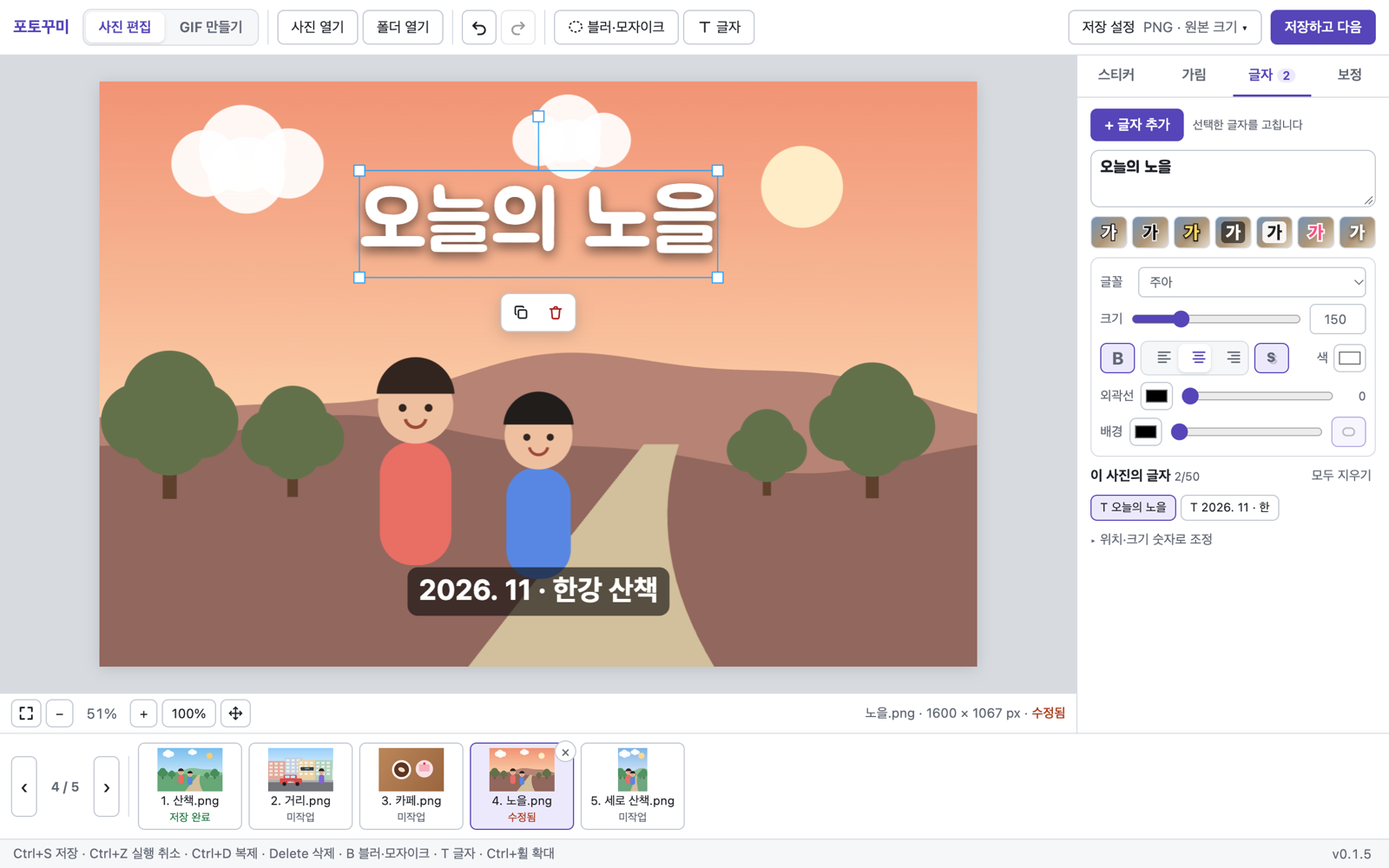
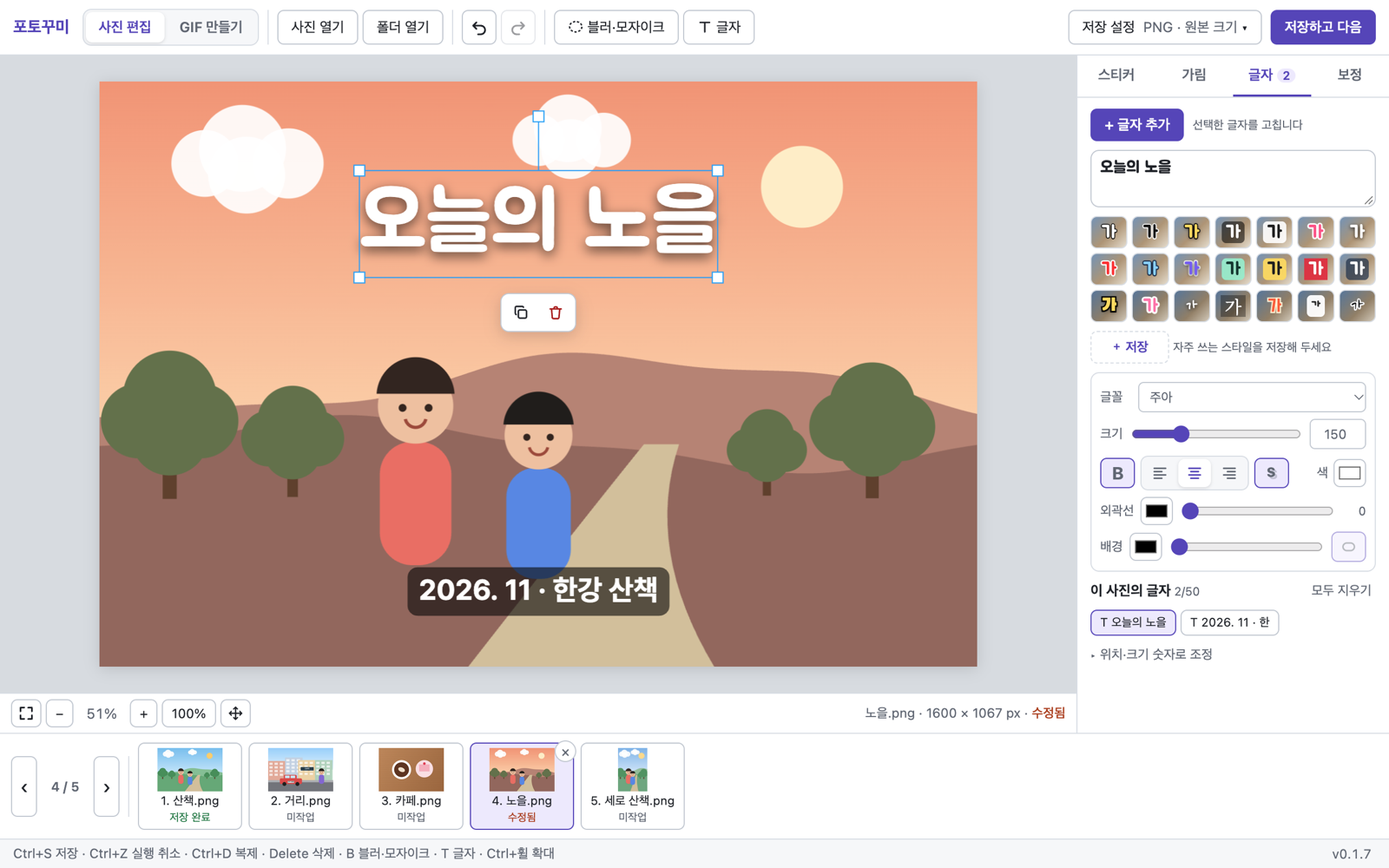
Add 21 quick text styles, saved "내 스타일" presets and fix the add hint
- Quick styles grow to 3 rows of 7: two rows of color/outline/box looks that
  keep the font, one row of templates that also pick a bundled font.
- 내 스타일: save the panel's whole look plus size relative to the photo
  (not the content), apply with font and size, delete; max 20, persisted.
- Handle resizing now also remembers the size for the next text.
- The hint beside 글자 추가 is shorter and wraps to two lines instead of an
  ellipsis; at window heights <= 640px the add row hides (toolbar T / T key)
  and the preset grids shrink to one scrolling row so the panel fits.

Changed region(s): [[0.7812, 0.248, 1.0, 0.775]]

diff --git a/src/renderer/TextPanel.tsx b/src/renderer/TextPanel.tsx
@@ -1,7 +1,7 @@
 import { useEffect, useRef, type ReactNode, type RefObject } from 'react'
 import { BUNDLED_FONTS, CATEGORY_LABELS, systemFont, systemFamily, type FontCategory } from '../shared/fonts'
-import { MAX_TEXTS, TEXT_PRESETS, type TextAlign, type TextItem, type TextStyle } from '../shared/text'
-import { previewFamily } from './text'
+import { MAX_MY_PRESETS, MAX_TEXTS, TEXT_PRESETS, type MyPreset, type TextAlign, type TextItem, type TextStyle } from '../shared/text'
+import { ensureFont, previewFamily } from './text'
 
 interface Props {
   photoOpen: boolean
@@ -14,6 +14,11 @@ interface Props {
   maxFontSize: number
   /** null while the PC font list is loading. */
   systemFonts: string[] | null
+  /** Looks the user saved ("내 스타일"), newest first. */
+  myPresets: MyPreset[]
+  onSaveMine(): void
+  onApplyMine(preset: MyPreset): void
+  onDeleteMine(id: string): void
   textArea: RefObject<HTMLTextAreaElement | null>
   onAdd(): void
   onSelect(id: string): void
@@ -42,7 +47,21 @@ const alignIcon = (align: TextAlign) => <svg width="14" height="14" viewBox="0 0
   {[3, 6.5, 10, 13.5].map((y, index) => { const long = index % 2 === 0, w = long ? 12 : 8, x = align === 'left' ? 2 : align === 'right' ? 14 - w : 8 - w / 2; return <path key={y} d={`M${x} ${y}h${w}`} /> })}
 </svg>
 
-export function TextPanel({ photoOpen, busy, texts, selected, style, fontSize, maxFontSize, systemFonts, textArea, onAdd, onSelect, onText, onStyle, onFontSize, onCommit, onClear, children }: Props) {
+/** "가" drawn in a look on a photo-like backdrop, so each chip shows how the style reads on a picture. */
+function Sample({ look }: { look: TextStyle }) {
+  return <span style={{ color: look.color, fontFamily: previewFamily(look.font), fontWeight: look.bold ? 700 : 400,
+    background: look.boxOpacity > 0 ? `${look.boxColor}${Math.round(look.boxOpacity * 2.55).toString(16).padStart(2, '0')}` : undefined,
+    borderRadius: look.boxOpacity > 0 && !look.boxRound ? 0 : undefined,
+    WebkitTextStroke: look.strokeWidth > 0 ? `${Math.max(2, look.strokeWidth / 4)}px ${look.strokeColor}` : undefined,
+    textShadow: look.shadow ? '0 1px 3px rgba(0,0,0,.7)' : undefined }}>가</span>
+}
+export function TextPanel({ photoOpen, busy, texts, selected, style, fontSize, maxFontSize, systemFonts, myPresets, textArea, onAdd, onSelect, onText, onStyle, onFontSize, onCommit, onClear, onSaveMine, onApplyMine, onDeleteMine, children }: Props) {
+  // Chips preview their own fonts: load the template and saved-style faces once they are listed.
+  const fontKeys = [...new Set([...TEXT_PRESETS.flatMap(preset => preset.style.font ? [`${preset.style.font}|${preset.style.bold ?? true}`] : []),
+    ...myPresets.map(preset => `${preset.style.font}|${preset.style.bold}`)])].join(',')
+  useEffect(() => {
+    for (const key of fontKeys.split(',').filter(Boolean)) { const [font, bold] = key.split('|'); void ensureFont(font, bold === 'true').catch(() => undefined) }
+  }, [fontKeys])
   const off = busy || !photoOpen
   const editing = !!selected
   const family = systemFamily(style.font)
@@ -53,22 +72,23 @@ export function TextPanel({ photoOpen, busy, texts, selected, style, fontSize, m
   return <section className="text-panel" aria-label="글자">
     <div className="text-add">
       <button className="primary" disabled={off || texts.length >= MAX_TEXTS} onClick={onAdd}>+ 글자 추가</button>
-      <span className="hint">{editing ? '선택한 글자를 고칩니다' : photoOpen ? '스타일은 다음 글자에 적용' : '사진을 열면 글자를 넣을 수 있습니다'}</span>
+      <span className="hint">{editing ? '선택한 글자를 고칩니다' : photoOpen ? '스타일은 다음 글자에 적용됩니다' : '사진을 먼저 열어 주세요'}</span>
     </div>
-    <textarea ref={textArea} aria-label="글자 내용" rows={2} maxLength={500} placeholder={editing ? '' : '글자 추가를 누른 뒤 입력하세요'} disabled={off || !editing}
+    <textarea ref={textArea} aria-label="글자 내용" rows={2} spellCheck={false} maxLength={500} placeholder={editing ? '' : '글자 추가(T)를 누른 뒤 입력하세요'} disabled={off || !editing}
       value={selected?.text ?? ''} style={{ fontFamily: previewFamily(style.font), fontWeight: style.bold ? 700 : 400 }}
       onChange={e => onText(e.target.value)} onBlur={onCommit} />
     <div className="text-presets" role="group" aria-label="빠른 스타일">
-      {TEXT_PRESETS.map(preset => {
-        const look = { ...style, ...preset.style }
-        // A photo-like backdrop shows how each look reads on a picture.
-        return <button key={preset.name} className="preset" disabled={off} title={preset.name} aria-label={`스타일: ${preset.name}`}
-          onClick={() => onStyle(preset.style)}>
-          <span style={{ color: look.color, background: look.boxOpacity > 0 ? `${look.boxColor}${Math.round(look.boxOpacity * 2.55).toString(16).padStart(2, '0')}` : undefined,
-            WebkitTextStroke: look.strokeWidth > 0 ? `${Math.max(2, look.strokeWidth / 4)}px ${look.strokeColor}` : undefined,
-            textShadow: look.shadow ? '0 1px 3px rgba(0,0,0,.7)' : undefined }}>가</span>
-        </button>
-      })}
+      {TEXT_PRESETS.map(preset => <button key={preset.name} className={`preset${preset.style.font ? ' template' : ''}`} disabled={off} title={preset.name} aria-label={`스타일: ${preset.name}`}
+        onClick={() => onStyle(preset.style)}><Sample look={{ ...style, ...preset.style }} /></button>)}
+    </div>
+    <div className="my-presets" role="group" aria-label="내 스타일">
+      <button className="preset save" disabled={off || myPresets.length >= MAX_MY_PRESETS} title={myPresets.length >= MAX_MY_PRESETS ? `내 스타일은 ${MAX_MY_PRESETS}개까지 저장됩니다` : '지금 글꼴·크기·색·외곽선·배경·그림자를 내 스타일로 저장'}
+        aria-label="지금 스타일을 내 스타일로 저장" onClick={onSaveMine}>＋ 저장</button>
+      {myPresets.map((preset, index) => <div key={preset.id} className="my-preset">
+        <button className="preset" disabled={off} title={`내 스타일 ${index + 1} 적용 (글꼴·크기 포함)`} aria-label={`내 스타일 ${index + 1}`} onClick={() => onApplyMine(preset)}><Sample look={preset.style} /></button>
+        <button className="remove" disabled={busy} title="내 스타일 삭제" aria-label={`내 스타일 ${index + 1} 삭제`} onClick={() => onDeleteMine(preset.id)}>×</button>
+      </div>)}
+      {!myPresets.length && <span className="hint">자주 쓰는 스타일을 저장해 두세요</span>}
     </div>
     <div className="region-fields text-fields" role="group" aria-label="글자 스타일">
       <label>글꼴<select aria-label="글꼴" disabled={off} value={style.font} onChange={e => onStyle({ font: e.target.value })}>

diff --git a/src/renderer/src.tsx b/src/renderer/src.tsx
@@ -11,7 +11,7 @@ import type { UpdateState } from '../shared/update'
 import { loadPref, savePref } from './remember'
 import { TextPanel } from './TextPanel'
 import { ensureFont, listSystemFonts, withMeasuredSize } from './text'
-import { DEFAULT_TEXT, DEFAULT_TEXT_STYLE, MAX_TEXTS, validFontSize, validTextStyle, type TextItem, type TextStyle } from '../shared/text'
+import { DEFAULT_TEXT, DEFAULT_TEXT_STYLE, MAX_MY_PRESETS, MAX_TEXTS, samePreset, validFontSize, validMyPresets, validRelSize, validTextStyle, type MyPreset, type TextItem, type TextStyle } from '../shared/text'
 const validRegionEffect = (value: unknown): value is { style: 'blur' | 'mosaic'; strength: number; shape: 'ellipse' | 'rect' } => {
   const v = value as Record<string, unknown> | null
   return !!v && typeof v === 'object' && ['blur', 'mosaic'].includes(v.style as string) && typeof v.strength === 'number' && validStrength(v.strength) && ['ellipse', 'rect'].includes(v.shape as string)
@@ -24,7 +24,7 @@ import { ADJUSTMENT_KEYS, isNeutral, sameAdjustments, NEUTRAL_ADJUSTMENTS, type 
 import './style.css'
 const validTextDefaults = (value: unknown): value is { style: TextStyle; relSize: number } => {
   const v = value as Record<string, unknown> | null
-  return !!v && typeof v === 'object' && validTextStyle(v.style) && typeof v.relSize === 'number' && v.relSize > 0 && v.relSize <= 1
+  return !!v && typeof v === 'object' && validTextStyle(v.style) && validRelSize(v.relSize)
 }
 /** Which side tab edits the selected item. */
 function selectedKind(scene: Scene): 'stickers' | 'regions' | 'text' | null {
@@ -88,6 +88,8 @@ function App() {
   type TextDefaults = { style: TextStyle; relSize: number }
   const [textDefaults, setTextDefaults] = useState<TextDefaults>(() => loadPref('pk.textDefaults', { style: { ...DEFAULT_TEXT_STYLE }, relSize: 0.08 }, validTextDefaults))
   const [systemFonts, setSystemFonts] = useState<string[] | null>(null)
+  const [myPresets, setMyPresets] = useState<MyPreset[]>(() => loadPref('pk.textPresets', [], validMyPresets))
+  function storeMyPresets(next: MyPreset[]) { setMyPresets(next); savePref('pk.textPresets', next) }
   const textArea = useRef<HTMLTextAreaElement>(null)
   const focusNewText = useRef(false)
   useEffect(() => { if (sideTab === 'text' && systemFonts === null) void listSystemFonts().then(setSystemFonts) }, [sideTab, systemFonts])
@@ -263,6 +265,24 @@ function App() {
       if (currentHistory.current.present.selectedId === id) changeText({ style })
     })
   }
+  /** Saves the look in the panel (selected text, else the defaults) as "내 스타일"; content is not part of it. */
+  function saveMyPreset() {
+    const preset = { style: { ...(textItem?.style ?? textDefaults.style) }, relSize: textItem ? Math.min(1, textItem.fontSize / shortEdge) : textDefaults.relSize }
+    if (myPresets.some(item => samePreset(item, preset))) { setStatus('같은 스타일이 이미 내 스타일에 있습니다.'); return }
+    if (myPresets.length >= MAX_MY_PRESETS) return
+    storeMyPresets([{ id: crypto.randomUUID(), ...preset }, ...myPresets])
+    setStatus('지금 스타일을 내 스타일에 저장했습니다. 다시 실행해도 남아 있습니다.')
+  }
+  /** Applies a saved look including font and size (size follows the photo's short edge). */
+  function applyMyPreset(preset: MyPreset) {
+    rememberText({ style: { ...preset.style }, relSize: preset.relSize })
+    const id = textItem?.id
+    void run(async () => {
+      await ensureFont(preset.style.font, preset.style.bold)
+      if (!id || currentHistory.current.present.selectedId !== id) return
+      changeText({ style: { ...preset.style }, fontSize: Math.min(maxFontSize, Math.max(8, Math.round(preset.relSize * shortEdge))) })
+    })
+  }
   function changeFontSize(size: number, live = false) {
     if (!textItem || !validFontSize(size)) return
     rememberText({ ...textDefaults, relSize: Math.min(1, size / shortEdge) })
@@ -365,7 +385,11 @@ function App() {
   function change(value: Placement, id = selection ? scene.selectedId ?? undefined : undefined) {
     if (!id || !validPlacement(value)) return
     const current = currentHistory.current.present
-    editScene(updateSelected({ ...current, selectedId: id }, value))
+    const next = updateSelected({ ...current, selectedId: id }, value)
+    editScene(next)
+    // A text resized with the handles makes its size the default for the next text (like the size field does).
+    const before = current.texts.find(item => item.id === id), after = next.texts.find(item => item.id === id)
+    if (before && after && after.fontSize !== before.fontSize) rememberText({ ...textDefaults, relSize: Math.min(1, after.fontSize / shortEdge) })
   }
   function handleEditorKey(event: KeyboardEvent<HTMLElement>) {
     const target = event.target
@@ -748,6 +772,7 @@ function App() {
           {region ? numericFields : <p className="hint">{photo ? '켜 둔 채로 여러 곳을 연속으로 가릴 수 있습니다. 빈 곳을 드래그하면 새 영역, 영역을 누르면 선택됩니다. Shift는 정원·정사각형, 사진 밖에서 드래그를 시작하면 사진 끝에 딱 맞춰집니다. Esc나 B로 도구를 끕니다.' : '사진을 열면 블러·모자이크로 가릴 수 있습니다.'}</p>}
         </section> : sideTab === 'text' ? <TextPanel photoOpen={!!photo} busy={busy} texts={scene.texts} selected={textItem}
           style={textItem?.style ?? textDefaults.style} fontSize={textItem?.fontSize ?? null} maxFontSize={maxFontSize} systemFonts={systemFonts} textArea={textArea}
+          myPresets={myPresets} onSaveMine={saveMyPreset} onApplyMine={applyMyPreset} onDeleteMine={id => storeMyPresets(myPresets.filter(item => item.id !== id))}
           onAdd={() => void addTextItem()} onSelect={selectInstance} onText={text => changeText({ text }, true)} onStyle={changeTextStyle} onFontSize={changeFontSize}
           onCommit={commitLive} onClear={() => editScene(clearTexts(currentHistory.current.present))}>
           {textItem ? numericFields : <p className="hint">{photo ? '글자를 누르면 선택됩니다. 모서리를 끌면 크기, 위쪽 핸들로 회전합니다. 방향키 1px, Shift+방향키 10px 이동.' : ''}</p>}

diff --git a/src/shared/text.ts b/src/shared/text.ts
@@ -30,7 +30,10 @@ export const DEFAULT_TEXT_STYLE: TextStyle = {
   font: DEFAULT_FONT, bold: true, color: '#ffffff', align: 'center',
   strokeColor: '#000000', strokeWidth: 8, boxColor: '#000000', boxOpacity: 0, boxRound: true, shadow: false
 }
-/** Quick looks that keep the font and size; each pairs text with an outline or box so it reads on any photo. */
+/**
+ * Quick looks, 7 per row. Rows 1~2 only change colors/outline/box/shadow and keep the user's font and size;
+ * row 3 are templates that also pick a bundled font. Each pairs the text with an outline or box so it reads on any photo.
+ */
 export const TEXT_PRESETS: readonly { name: string; style: Partial<TextStyle> }[] = [
   { name: '흰 글자 + 검은 외곽선', style: { color: '#ffffff', strokeColor: '#000000', strokeWidth: 8, boxOpacity: 0, shadow: false } },
   { name: '검은 글자 + 흰 외곽선', style: { color: '#111111', strokeColor: '#ffffff', strokeWidth: 8, boxOpacity: 0, shadow: false } },
@@ -38,8 +41,35 @@ export const TEXT_PRESETS: readonly { name: string; style: Partial<TextStyle> }[
   { name: '반투명 검은 상자', style: { color: '#ffffff', strokeWidth: 0, boxColor: '#000000', boxOpacity: 55, boxRound: true, shadow: false } },
   { name: '흰 상자', style: { color: '#222222', strokeWidth: 0, boxColor: '#ffffff', boxOpacity: 90, boxRound: true, shadow: false } },
   { name: '분홍 + 흰 외곽선', style: { color: '#ff5c93', strokeColor: '#ffffff', strokeWidth: 12, boxOpacity: 0, shadow: false } },
-  { name: '그림자만', style: { color: '#ffffff', strokeWidth: 0, boxOpacity: 0, shadow: true } }
+  { name: '그림자만', style: { color: '#ffffff', strokeWidth: 0, boxOpacity: 0, shadow: true } },
+
+  { name: '빨강 + 흰 외곽선', style: { color: '#ff3b30', strokeColor: '#ffffff', strokeWidth: 10, boxOpacity: 0, shadow: false } },
+  { name: '하늘색 + 남색 외곽선', style: { color: '#8fd3ff', strokeColor: '#1d3557', strokeWidth: 10, boxOpacity: 0, shadow: false } },
+  { name: '보라 + 흰 외곽선', style: { color: '#7b5cff', strokeColor: '#ffffff', strokeWidth: 10, boxOpacity: 0, shadow: true } },
+  { name: '민트 상자', style: { color: '#0f3d33', strokeWidth: 0, boxColor: '#9ef0d0', boxOpacity: 92, boxRound: true, shadow: false } },
+  { name: '노란 상자', style: { color: '#222222', strokeWidth: 0, boxColor: '#ffe14d', boxOpacity: 95, boxRound: true, shadow: false } },
+  { name: '빨간 띠 + 흰 글자', style: { color: '#ffffff', strokeWidth: 0, boxColor: '#e63946', boxOpacity: 95, boxRound: false, shadow: false } },
+  { name: '남색 반투명 상자', style: { color: '#ffffff', strokeWidth: 0, boxColor: '#1d3557', boxOpacity: 70, boxRound: true, shadow: false } },
+
+  { name: '예능 자막 (검은고딕)', style: { font: 'blackhansans', bold: false, color: '#ffe14d', strokeColor: '#000000', strokeWidth: 12, boxOpacity: 0, shadow: true } },
+  { name: '귀여운 분홍 (주아)', style: { font: 'jua', bold: false, color: '#ff7eb6', strokeColor: '#ffffff', strokeWidth: 14, boxOpacity: 0, shadow: false } },
+  { name: '손글씨 메모 (나눔손글씨 펜)', style: { font: 'nanumpen', bold: false, color: '#ffffff', strokeWidth: 0, boxOpacity: 0, shadow: true } },
+  { name: '감성 명조 (본명조)', style: { font: 'notoserif', bold: false, color: '#ffffff', strokeWidth: 0, boxColor: '#000000', boxOpacity: 35, boxRound: false, shadow: false } },
+  { name: '레트로 (도현)', style: { font: 'dohyeon', bold: false, color: '#ff6b35', strokeColor: '#fff4d6', strokeWidth: 10, boxOpacity: 0, shadow: false } },
+  { name: '말풍선 (동글)', style: { font: 'dongle', bold: true, color: '#333333', strokeWidth: 0, boxColor: '#ffffff', boxOpacity: 95, boxRound: true, shadow: false } },
+  { name: '붓글씨 (나눔손글씨 붓)', style: { font: 'nanumbrush', bold: false, color: '#111111', strokeColor: '#ffffff', strokeWidth: 10, boxOpacity: 0, shadow: false } }
 ]
+/** A look the user saved: the whole style plus the size relative to the photo's short edge (no text content). */
+export interface MyPreset { id: string; style: TextStyle; relSize: number }
+export const MAX_MY_PRESETS = 20
+export const validRelSize = (value: unknown): value is number => typeof value === 'number' && Number.isFinite(value) && value > 0 && value <= 1
+export function validMyPresets(value: unknown): value is MyPreset[] {
+  return Array.isArray(value) && value.length <= MAX_MY_PRESETS && value.every(item => !!item && typeof item === 'object'
+    && typeof item.id === 'string' && item.id.length <= 64 && validTextStyle(item.style) && validRelSize(item.relSize))
+}
+/** Same look as an existing preset (sizes within 0.1% of the short edge count as equal). */
+export const samePreset = (a: Omit<MyPreset, 'id'>, b: Omit<MyPreset, 'id'>) =>
+  Math.abs(a.relSize - b.relSize) < 0.001 && (Object.keys(a.style) as (keyof TextStyle)[]).every(key => a.style[key] === b.style[key])
 const COLOR = /^#[0-9a-f]{6}$/i
 const intIn = (value: unknown, min: number, max: number) => typeof value === 'number' && Number.isInteger(value) && value >= min && value <= max
 export function validTextStyle(value: unknown): value is TextStyle {

diff --git a/src/renderer/style.css b/src/renderer/style.css
@@ -213,13 +213,27 @@ button.disclosure:hover { color: var(--text); background: none; }.region-panel {
 .text-panel { flex: 1; min-height: 0; display: flex; flex-direction: column; gap: 8px; padding: 10px 12px; overflow-y: auto; }
 .text-add { display: flex; align-items: center; gap: 8px; }
 .text-add button { flex: none; height: 30px; }
-.text-add .hint { min-width: 0; overflow: hidden; text-overflow: ellipsis; white-space: nowrap; font-size: 11px; }
+/* Up to two short lines beside the button instead of an ellipsis. */
+.text-add .hint { min-width: 0; font-size: 11px; line-height: 1.3; display: -webkit-box; -webkit-line-clamp: 2; -webkit-box-orient: vertical; overflow: hidden; }
 .text-panel textarea { flex: none; width: 100%; min-height: 44px; max-height: 72px; resize: vertical; padding: 6px 8px; border: 1px solid var(--line-strong); border-radius: var(--radius); font-size: 15px; line-height: 1.3; background: var(--surface); color: var(--text); }
 .text-panel textarea:disabled { background: var(--surface-2); }
 .text-presets { display: grid; grid-template-columns: repeat(7, 1fr); gap: 4px; }
 .text-presets .preset { height: 30px; padding: 0; display: flex; align-items: center; justify-content: center; border-color: var(--line); background: linear-gradient(135deg, #7d9cc4 0%, #b8a07c 55%, #e9e2d3 100%); }
 .text-presets .preset span { padding: 0 4px; border-radius: 4px; font-size: 16px; font-weight: 800; line-height: 1.25; paint-order: stroke fill; }
-.text-presets .preset:hover:not(:disabled) { border-color: var(--accent); }
+.text-presets .preset:hover:not(:disabled), .my-presets .preset:hover:not(:disabled) { border-color: var(--accent); }
+/* Font templates (row 3) get a slightly different backdrop so it reads as "also changes the font". */
+.text-presets .preset.template { background: linear-gradient(135deg, #5f7fa8 0%, #9d8b6e 60%, #d8d0c0 100%); }
+/* Built-in looks: three rows of seven; at small heights only one row shows and the grid scrolls (a leaf). */
+.text-presets { flex: none; max-height: calc(3 * 30px + 2 * 4px); overflow-y: auto; scrollbar-width: thin; }
+.my-presets { scrollbar-width: thin; }
+.my-presets { flex: none; display: grid; grid-template-columns: repeat(7, 1fr); gap: 4px; max-height: 30px; overflow-y: auto; align-items: center; }
+.my-presets .preset { width: 100%; height: 30px; padding: 0; display: flex; align-items: center; justify-content: center; border-color: var(--line); background: linear-gradient(135deg, #7d9cc4 0%, #b8a07c 55%, #e9e2d3 100%); }
+.my-presets .preset span { padding: 0 4px; border-radius: 4px; font-size: 16px; font-weight: 800; line-height: 1.25; paint-order: stroke fill; }
+.my-presets .preset.save { grid-column: span 2; background: var(--surface); border-style: dashed; color: var(--accent); font-size: 12px; font-weight: 600; }
+.my-presets .hint { grid-column: span 5; font-size: 11px; white-space: nowrap; overflow: hidden; text-overflow: ellipsis; }
+.my-preset { position: relative; min-width: 0; }
+.my-preset .remove { position: absolute; top: 1px; right: 1px; width: 16px; height: 16px; padding: 0; border-radius: 50%; font-size: 11px; line-height: 1; display: none; place-items: center; background: var(--surface); }
+.my-preset:hover .remove, .my-preset:focus-within .remove { display: grid; }
 .text-fields { gap: 6px; grid-template-columns: minmax(0, 1fr); }
 .text-fields > * { min-width: 0; }
 .text-fields select { flex: 1; min-width: 0; height: 28px; margin-left: 8px; }
@@ -331,9 +345,12 @@ dialog.library-dialog { width: min(860px, 92vw); max-width: 92vw; max-height: 86
 }
 @media (max-height: 640px) {
   .text-panel { gap: 6px; padding: 8px 10px; }
-  .text-add .hint { display: none; }
+  /* Same action as the toolbar T button / T key; dropped so the panel fits 580px without nesting scrollbars. */
+  .text-add { display: none; }
   .text-panel textarea { min-height: 36px; }
-  .text-presets .preset { height: 26px; }
+  .text-presets .preset, .my-presets .preset { height: 26px; }
+  .text-presets { max-height: 26px; }
+  .my-presets { max-height: 26px; }
   .text-fields { gap: 4px; padding: 6px 8px; }
   .text-panel textarea { min-height: 32px; padding: 4px 8px; }
   .text-fields select, .text-fields input[type=number], .text-fields .bold-toggle { height: 25px; }

diff --git a/tests/text.test.ts b/tests/text.test.ts
@@ -1,7 +1,7 @@
 import { describe, it, expect } from 'vitest'
 import { existsSync, readFileSync, readdirSync } from 'node:fs'
 import { join } from 'node:path'
-import { DEFAULT_TEXT_STYLE, MAX_TEXTS, TEXT_PRESETS, layoutText, lineAnchor, scaleText, validTextItem, validTextStyle, type TextItem } from '../src/shared/text'
+import { DEFAULT_TEXT_STYLE, MAX_MY_PRESETS, MAX_TEXTS, TEXT_PRESETS, layoutText, samePreset, validMyPresets, lineAnchor, scaleText, validTextItem, validTextStyle, type TextItem } from '../src/shared/text'
 import { BUNDLED_FONTS, fontFamilyList, systemFont, validFontRef } from '../src/shared/fonts'
 import { addInstance, addText, clearTexts, commitScene, duplicateSelected, emptyHistory, removeSelected, undoScene, updateSelected, updateSelectedText } from '../src/shared/scene'
 import { allowedPermission, bundleFileType } from '../src/main/security'
@@ -54,6 +54,24 @@ describe('글자 값 검증', () => {
     for (const bad of ['a"b', 'a\\b', 'a;b', '', ' lead', 'x'.repeat(121), 'a\nb']) expect(validFontRef(systemFont(bad))).toBe(false)
     expect(fontFamilyList(systemFont('맑은 고딕'))).toBe('"맑은 고딕", "PK pretendard", sans-serif')
     expect(fontFamilyList('jua')).toBe('"PK jua", "PK pretendard", sans-serif')
+  })
+})
+
+describe('빠른 스타일과 내 스타일', () => {
+  it('빠른 스타일은 7개씩 3줄, 이름이 겹치지 않고 3번째 줄만 글꼴을 바꾼다', () => {
+    expect(TEXT_PRESETS).toHaveLength(21)
+    expect(new Set(TEXT_PRESETS.map(preset => preset.name)).size).toBe(21)
+    expect(TEXT_PRESETS.map(preset => !!preset.style.font)).toEqual([...Array(14).fill(false), ...Array(7).fill(true)])
+  })
+  it('저장된 내 스타일 목록을 검증하고 같은 스타일을 알아본다', () => {
+    const mine = { id: 'm1', style: { ...DEFAULT_TEXT_STYLE }, relSize: 0.1 }
+    expect(validMyPresets([])).toBe(true)
+    expect(validMyPresets([mine])).toBe(true)
+    for (const bad of [[{ ...mine, relSize: 0 }], [{ ...mine, relSize: 2 }], [{ ...mine, style: { ...mine.style, color: 'red' } }], [{ ...mine, id: 5 }], 'x', null,
+      Array.from({ length: MAX_MY_PRESETS + 1 }, (_, index) => ({ ...mine, id: String(index) }))]) expect(validMyPresets(bad)).toBe(false)
+    expect(samePreset(mine, { style: { ...DEFAULT_TEXT_STYLE }, relSize: 0.1004 })).toBe(true)
+    expect(samePreset(mine, { style: { ...DEFAULT_TEXT_STYLE }, relSize: 0.12 })).toBe(false)
+    expect(samePreset(mine, { style: { ...DEFAULT_TEXT_STYLE, shadow: true }, relSize: 0.1 })).toBe(false)
   })
 })
 

diff --git a/docs/development.md b/docs/development.md
@@ -6,7 +6,7 @@
 
 블로그에 올릴 사진을 빠르게 준비하는 **Windows용 로컬 데스크톱 앱**입니다. 사진을 열고, 미리 등록한 투명 PNG 스티커로 얼굴을 가리거나 사진을 꾸민 뒤, 크기를 맞춰 저장하고 다음 사진으로 넘어가는 반복 작업에 집중합니다.
 
-**현재 상태: 폴더 입력·하단 썸네일·블로그 리사이즈·스티커 관리 분리 구현 및 macOS 자동 검증 완료. 화면은 상단 툴바 1줄·`저장 설정` 팝오버·스크롤 없는 우측 패널로 정리했습니다([화면 레이아웃 기록](./ui-layout.md)). 탐색기에서 사진·폴더를 끌어 놓아 추가하고 썸네일 `×`로 목록에서 제거합니다([끌어 놓기 기록](./drop-import.md)). `블러·모자이크`로 사진 위에 타원 가림 영역을 그려 스티커처럼 이동·크기·회전하고 강도를 조절합니다([블러·모자이크 기록](./blur-regions.md)). 우측 `보정` 탭에서 노출·대비·채도·색온도를 조절하고 모든 사진에 같은 값을 적용할 수 있습니다([보정 기록](./adjustments.md)). `GIF 만들기` 모드에서 MOV/MP4의 구간을 `[` `]`로 골라 GIF로 저장합니다. 이 기능은 사용자가 따로 설치한 ffmpeg를 사용하며 앱에 포함하지 않습니다([GIF 기록](./gif.md)). 0.1.4부터 고양이·토끼·양·너구리 7방향 기본 스티커 28장(`animal`), 0.1.5부터 하트·반짝이·꽃 등 꾸미기 스티커 12장(`deco`)이 한 번 들어갑니다([기본 스티커 기록](./default-stickers.md)). 0.1.6부터 툴바 `T 글자`와 우측 `글자` 탭으로 사진 위에 글자를 넣고 글꼴(앱 내장 OFL 15종 + 내 PC 글꼴)·크기·색·외곽선·배경 상자·그림자를 조절합니다([글자 넣기 기록](./text-overlay.md)).** 입력 폴더 또는 여러 JPG/PNG 사진을 열고 하단 썸네일에서 전환하며 사진별 스티커 배치·선택·undo/redo·저장 상태를 유지합니다. PNG 스티커 라이브러리, 다중 배치·복제·삭제·겹침 순서와 원본/가로 너비·긴 축 기준 JPG·PNG 저장을 제공합니다. 확대 방지와 JPG 품질 100 고정 저장을 지원하며 공통 출력 설정은 재실행 후에도 유지합니다. `저장하고 다음`은 저장 성공 후에만 다음 사진으로 이동하며 마지막 사진에서는 완료를 안내합니다. 사진을 바꾸거나 종료할 때 수정 내용의 저장·버리기·취소를 선택합니다.
+**현재 상태: 폴더 입력·하단 썸네일·블로그 리사이즈·스티커 관리 분리 구현 및 macOS 자동 검증 완료. 화면은 상단 툴바 1줄·`저장 설정` 팝오버·스크롤 없는 우측 패널로 정리했습니다([화면 레이아웃 기록](./ui-layout.md)). 탐색기에서 사진·폴더를 끌어 놓아 추가하고 썸네일 `×`로 목록에서 제거합니다([끌어 놓기 기록](./drop-import.md)). `블러·모자이크`로 사진 위에 타원 가림 영역을 그려 스티커처럼 이동·크기·회전하고 강도를 조절합니다([블러·모자이크 기록](./blur-regions.md)). 우측 `보정` 탭에서 노출·대비·채도·색온도를 조절하고 모든 사진에 같은 값을 적용할 수 있습니다([보정 기록](./adjustments.md)). `GIF 만들기` 모드에서 MOV/MP4의 구간을 `[` `]`로 골라 GIF로 저장합니다. 이 기능은 사용자가 따로 설치한 ffmpeg를 사용하며 앱에 포함하지 않습니다([GIF 기록](./gif.md)). 0.1.4부터 고양이·토끼·양·너구리 7방향 기본 스티커 28장(`animal`), 0.1.5부터 하트·반짝이·꽃 등 꾸미기 스티커 12장(`deco`)이 한 번 들어갑니다([기본 스티커 기록](./default-stickers.md)). 0.1.6부터 툴바 `T 글자`와 우측 `글자` 탭으로 사진 위에 글자를 넣고 글꼴(앱 내장 OFL 15종 + 내 PC 글꼴)·크기·색·외곽선·배경 상자·그림자를 조절하고, 빠른 스타일 21종과 직접 저장한 `내 스타일`을 쓰며 마지막 스타일·크기는 재실행 후에도 유지합니다([글자 넣기 기록](./text-overlay.md)).** 입력 폴더 또는 여러 JPG/PNG 사진을 열고 하단 썸네일에서 전환하며 사진별 스티커 배치·선택·undo/redo·저장 상태를 유지합니다. PNG 스티커 라이브러리, 다중 배치·복제·삭제·겹침 순서와 원본/가로 너비·긴 축 기준 JPG·PNG 저장을 제공합니다. 확대 방지와 JPG 품질 100 고정 저장을 지원하며 공통 출력 설정은 재실행 후에도 유지합니다. `저장하고 다음`은 저장 성공 후에만 다음 사진으로 이동하며 마지막 사진에서는 완료를 안내합니다. 사진을 바꾸거나 종료할 때 수정 내용의 저장·버리기·취소를 선택합니다.
 
 선택한 스티커는 **Delete/Backspace로 삭제**, **방향키로 원본 기준 1px 이동**, **Shift+방향키로 10px 이동**합니다. 입력칸에서는 입력을 우선하며 캔버스를 클릭하면 스티커 조작으로 돌아갑니다. 회전 핸들에 마우스를 올리면 원형 화살표 커서가 표시됩니다. 삭제·이동도 실행 취소/다시 실행할 수 있습니다. Ctrl/Cmd+Z로 실행 취소, Ctrl/Cmd+Shift+Z 또는 Ctrl/Cmd+Y로 다시 실행, Ctrl/Cmd+D로 선택 스티커를 복제합니다. 입력칸·관리 화면에서는 편집 단축키를 가로채지 않습니다.
 
@@ -39,7 +39,7 @@ npm run build
 npm start
 ```
 
-실제 결과: 단위/파일 I/O 96개, Playwright Electron E2E 30개 통과(글자 넣기 미리보기·저장 픽셀 일치, 기본 스티커 1회 추가·삭제 유지, 라이브러리 2개, 빈 라이브러리 등록·스티커 끌어 놓기·선택 도구 막대, 화면 배율 1·2 픽셀 회귀, 최소 창 크기 레이아웃 회귀, 끌어 놓기·제거, 블러·모자이크·보정 저장 픽셀, ffmpeg로 회전 HEVC MOV→GIF 포함. ffmpeg가 없으면 GIF E2E는 건너뜀), 타입·lint·빌드 통과(macOS 26.3 arm64). E2E는 native 파일 대화상자의 선택 결과만 대체하고 실제 main/preload/renderer, Canvas 인코딩과 파일 저장을 사용합니다. 화면 구성은 [레이아웃 기록](./ui-layout.md), 앱 아이콘 생성(`npm run icon -- <원본.png>`)은 [아이콘 기록](./icon.md), 설치 파일 배포(`v*` 태그 → draft Release)와 자동 업데이트(공개 Release 기준)는 [배포 기록](./release.md), 최신 폴더·화면 작업 흐름은 [반복 작업 개선 기록](./workflow.md), 출력 크기·형식과 오류 검증은 [단계 D 기록](./stage-d.md), 여러 사진 편집과 검증은 [단계 C 기록](./stage-c.md), 키보드 조작은 [키보드 조작 기록](./sticker-keyboard.md), 여러 스티커 편집은 [여러 스티커 수정 기록](./multiple-stickers.md), 라이브러리 형식·제한은 [단계 B 기록](./stage-b.md)에 있으며, 이전 검증은 [단계 A 안정화](./stage-a-stabilization.md), [의존성 감사 분석](./dependency-audit.md), [Windows 검증 절차](./windows-validation.md)에 있습니다.
+실제 결과: 단위/파일 I/O 98개, Playwright Electron E2E 31개 통과(글자 넣기 미리보기·저장 픽셀 일치, 글자 스타일·내 스타일 재실행 유지, 기본 스티커 1회 추가·삭제 유지, 라이브러리 2개, 빈 라이브러리 등록·스티커 끌어 놓기·선택 도구 막대, 화면 배율 1·2 픽셀 회귀, 최소 창 크기 레이아웃 회귀, 끌어 놓기·제거, 블러·모자이크·보정 저장 픽셀, ffmpeg로 회전 HEVC MOV→GIF 포함. ffmpeg가 없으면 GIF E2E는 건너뜀), 타입·lint·빌드 통과(macOS 26.3 arm64). E2E는 native 파일 대화상자의 선택 결과만 대체하고 실제 main/preload/renderer, Canvas 인코딩과 파일 저장을 사용합니다. 화면 구성은 [레이아웃 기록](./ui-layout.md), 앱 아이콘 생성(`npm run icon -- <원본.png>`)은 [아이콘 기록](./icon.md), 설치 파일 배포(`v*` 태그 → draft Release)와 자동 업데이트(공개 Release 기준)는 [배포 기록](./release.md), 최신 폴더·화면 작업 흐름은 [반복 작업 개선 기록](./workflow.md), 출력 크기·형식과 오류 검증은 [단계 D 기록](./stage-d.md), 여러 사진 편집과 검증은 [단계 C 기록](./stage-c.md), 키보드 조작은 [키보드 조작 기록](./sticker-keyboard.md), 여러 스티커 편집은 [여러 스티커 수정 기록](./multiple-stickers.md), 라이브러리 형식·제한은 [단계 B 기록](./stage-b.md)에 있으며, 이전 검증은 [단계 A 안정화](./stage-a-stabilization.md), [의존성 감사 분석](./dependency-audit.md), [Windows 검증 절차](./windows-validation.md)에 있습니다.
 
 단계 C 이전 Windows E2E **15개 전체 통과**를 사용자 로그로 확인했습니다. **단계 C·D와 이번 반복 작업 개선의 Windows 자동·수동 검증은 대기**이며 사용자가 나중에 모아서 확인할 예정입니다. 키보드 삭제·미세 이동·입력 보호·회전 커서, 라이브러리·다중 스티커 편집과 화면 배율 1·2 회귀를 포함합니다. Windows x64 NSIS 설정과 `npm run package:win` 스크립트는 준비했지만 **패키징 및 최신 설치본의 수동 GUI 검증은 대기**입니다. 단계 A의 기본 수동 편집·저장은 이전에 사용자 성공 보고를 받았습니다. 코드 서명·업데이트·릴리스 게시를 설정하지 않았습니다.
 

diff --git a/docs/text-overlay.md b/docs/text-overlay.md
@@ -8,9 +8,10 @@
 ## 사용
 - 툴바 `T 글자` 또는 `T` 키 → 사진 가운데에 `텍스트`가 생기고 입력칸이 선택된 상태로 열린다. 바로 입력하면 바뀐다. 다음 글자는 한 줄 아래에 생긴다.
 - 사진 위 글자는 스티커처럼 끌어서 이동, 모서리 핸들로 크기(비율 유지), 위 핸들로 회전한다. 방향키·Shift+방향키·Delete·Ctrl+D·undo/redo 동일. 캔버스에서 글자를 누르면 `글자` 탭, 스티커를 누르면 `스티커` 탭으로 전환된다.
-- 패널: 내용(여러 줄), 빠른 스타일 7종, 글꼴, 크기(px, 원본 기준), 굵게, 줄 정렬(왼/가운데/오른), 그림자, 글자색, 외곽선(색·두께), 배경 상자(색·불투명도·둥근 모서리).
-- 빠른 스타일은 글꼴·크기는 두고 색·외곽선·상자·그림자만 바꾼다(흰 글자+검은 외곽선, 검은 글자+흰 외곽선, 노란 자막, 반투명 검은 상자, 흰 상자, 분홍+흰 외곽선, 그림자만). 미리보기 칩은 사진처럼 보이는 그라데이션 위에 그려 사진 위에서의 대비를 보여 준다.
-- 선택이 없을 때 바꾼 스타일·글꼴은 다음 글자의 기본값이 되고, 마지막 스타일과 **크기(사진 짧은 변 대비 비율)**는 재실행 후에도 유지된다(`pk.textDefaults`, 앱 로컬 저장소). 그래서 해상도가 다른 사진에서도 자막 크기가 비슷하다.
+- 패널: 내용(여러 줄), 빠른 스타일 21종, 내 스타일, 글꼴, 크기(px, 원본 기준), 굵게, 줄 정렬(왼/가운데/오른), 그림자, 글자색, 외곽선(색·두께), 배경 상자(색·불투명도·둥근 모서리).
+- 빠른 스타일 21종(7개×3줄, 0.1.8): 1·2줄 14종은 글꼴·크기는 두고 색·외곽선·상자·그림자만 바꾼다(흰 글자+검은 외곽선, 노란 자막, 반투명 검은 상자, 민트·노란 상자, 빨간 띠 등). 3줄 7종은 **글꼴까지 바꾸는 템플릿**이다(예능 자막=검은고딕, 귀여운 분홍=주아, 손글씨 메모=나눔손글씨 펜, 감성 명조=본명조, 레트로=도현, 말풍선=동글, 붓글씨=나눔손글씨 붓). 칩은 사진처럼 보이는 그라데이션 위에 각 스타일의 글꼴로 "가"를 그린다(템플릿 줄은 배경을 조금 어둡게).
+- **내 스타일**(0.1.8): `＋ 저장`은 지금 패널의 스타일 전체(글꼴·굵게·정렬·색·외곽선·배경·그림자)와 크기(사진 짧은 변 대비 비율)를 저장한다. 글자 내용은 저장하지 않는다. 칩을 누르면 글꼴·크기까지 적용하고, 마우스를 올리면 나오는 `×`로 지운다. 같은 스타일은 한 번만 저장하고 최대 20개, 최근 것이 앞에 온다(`pk.textPresets`).
+- 선택이 없을 때 바꾼 스타일·글꼴은 다음 글자의 기본값이 되고, 마지막 스타일과 **크기(사진 짧은 변 대비 비율)**는 재실행 후에도 유지된다(`pk.textDefaults`, 앱 로컬 저장소). 크기는 숫자 입력·슬라이더뿐 아니라 모서리 핸들로 바꿔도 기억한다(0.1.8). 그래서 해상도가 다른 사진에서도 자막 크기가 비슷하다.
 - 입력·슬라이더·색 고르기는 한 번의 실행 취소 단위로 묶인다(입력칸을 벗어나거나 저장할 때 확정). 입력 중 Ctrl+S로 저장해도 저장 후 `수정됨`으로 돌아가지 않는다.
 
 ## 데이터·좌표
@@ -38,15 +39,20 @@
 - 재생성: `python3 -m venv .venv && .venv/bin/pip install fonttools brotli && .venv/bin/python scripts/prepare-fonts.py` (다운로드 캐시는 `.font-cache/`, 둘 다 gitignore). 스크립트가 OFL 원문이 아니면 중단한다.
 - 눈누 인기 목록 중 내장한 것: 프리텐다드, 본고딕, 수트, 주아, 나눔고딕, 나눔명조, 고운바탕, 검은고딕. 그 밖의 OFL 후보(빗썸고딕, 페이퍼로지, 마루 부리, 나눔스퀘어, 꾸불림체 등)는 원 배포처 파일·라이선스 확인 후 추가할 수 있다.
 
+## 0.1.7 수정
+- 정렬 버튼(폭 24~30px)에 기본 버튼 여백 좌우 12px가 남아 14px 아이콘이 오른쪽으로 밀리던 문제(Windows에서 확인)를 아이콘 버튼 여백 0·가운데 정렬로 고쳤다. E2E가 일반·좁은 화면에서 아이콘 중심 오차 1px 이하를 확인한다.
+- `글자 추가` 옆 설명은 짧게 바꾸고, 넘치면 말줄임 대신 두 줄까지 보인다(0.1.8).
+
 ## 보안
 - 글꼴 파일은 renderer 번들(`out/renderer/fonts`, asar 내부)에서 `app://bundle/fonts/…`로만 제공한다. 프로토콜은 `/fonts/` 아래 `.woff2`·`.ttf`만 허용하고 그 밖의 확장자(OFL.txt 포함)는 거부한다. CSP에 `font-src 'self'`만 추가했다.
 - PC 글꼴 목록은 Local Font Access(`queryLocalFonts`)로 읽는다. 권한 처리기는 **`local-fonts` 하나만**, 앱 창의 main frame이고 요청 출처가 앱 페이지(scheme+host 비교 — `URL.origin`은 `app://`에서 `'null'`이라 쓰지 않음)일 때만 허용한다. 나머지 권한은 그대로 모두 거부.
 - PC 글꼴 이름은 CSS 글꼴 문자열에 들어가므로 따옴표·역슬래시·`;{}<>`·제어 문자·앞뒤 공백·120자 초과를 거부한다.
 
 ## 검증 (macOS 26.3 arm64)
-- 단위 10개(`tests/text.test.ts`): 레이아웃(여러 줄·외곽선·상자·빈 글자), 정렬 기준선, 핸들 크기 조절과 한도, 스타일·항목·글꼴 참조 검증, 장면 추가·이동·크기·내용·복제·삭제·모두 지우기·undo, ID 충돌·50개 한도, 내장 글꼴 파일·OFL 동봉 일치, `local-fonts` 권한·글꼴 제공 경로.
-- E2E 1개: `T` 키 추가 → 입력칸 포커스·바로 입력, 내장 글꼴 로드, 색·상자·외곽선·크기 undo/redo, 숫자 위치, **미리보기 캔버스와 저장 PNG의 같은 좌표가 모두 상자 색**, 상자 밖은 원본 유지, Delete·undo, 입력 중 저장 후 깨끗한 상태 유지, PC 글꼴 목록 로드. 전체 E2E 30개 통과.
-- 수동: 1180×820·760×580에서 우측 패널 가로·세로 넘침 없음(최소 크기에서 숫자 위치 칸을 펼치면 글자 패널만 스크롤), 마우스 이동·모서리 크기 조절(80→112px) 확인.
+- 단위 12개(`tests/text.test.ts`): 빠른 스타일 21개·이름 중복 없음·3줄만 글꼴 변경, 내 스타일 목록 검증·같은 스타일 판정, 레이아웃(여러 줄·외곽선·상자·빈 글자), 정렬 기준선, 핸들 크기 조절과 한도, 스타일·항목·글꼴 참조 검증, 장면 추가·이동·크기·내용·복제·삭제·모두 지우기·undo, ID 충돌·50개 한도, 내장 글꼴 파일·OFL 동봉 일치, `local-fonts` 권한·글꼴 제공 경로.
+- E2E 1개: `T` 키 추가 → 입력칸 포커스·바로 입력, 내장 글꼴 로드, 색·상자·외곽선·크기 undo/redo, 숫자 위치, **미리보기 캔버스와 저장 PNG의 같은 좌표가 모두 상자 색**, 상자 밖은 원본 유지, Delete·undo, 입력 중 저장 후 깨끗한 상태 유지, PC 글꼴 목록 로드.
+- E2E 1개(0.1.8): 빠른 스타일 21개, 템플릿은 글꼴 변경·색 스타일은 글꼴 유지, 내 스타일 저장·중복 방지·적용(글꼴·색·크기)·삭제, **재실행 후 마지막 글꼴·외곽선·색·크기와 내 스타일 유지**(내용은 `텍스트`로 시작), 사진 없을 때 설명 문구가 잘리지 않음. 전체 E2E 31개 통과.
+- 수동: 1180×820·760×580에서 우측 패널 가로·세로 넘침 없음. 창 높이 640px 이하에서는 빠른 스타일·내 스타일이 각각 1줄로 줄어 그 안에서만 스크롤하고, `＋ 글자 추가` 줄은 숨긴다(툴바 `T 글자`·`T` 키와 같은 동작). 최소 크기에서 숫자 위치 칸을 펼치면 글자 패널이 스크롤된다. 마우스 이동·모서리 크기 조절(80→112px) 확인.
 - **Windows 검증 대기**: 맑은 고딕 등 PC 글꼴 목록·한글 이름 글꼴, 설치본에서 `app://bundle/fonts` 로딩, DPI 배율에서 그림자·외곽선 일치, 설치 파일 크기.
 
 ## 제한

diff --git a/README.md b/README.md
@@ -29,7 +29,7 @@
 | 🐱 **기본 스티커** | 고양이·토끼·양·너구리 얼굴이 정면·옆·뒷모습 등 7방향으로 들어 있어 얼굴 방향에 맞춰 가릴 수 있고, 하트·반짝이·별·꽃·화살표·마스킹 테이프 같은 꾸미기 스티커도 있습니다. 필요 없는 건 지워도 됩니다. |
 | 🧸 **내 스티커 라이브러리** | 투명 PNG를 한 번 등록해 두면 계속 남습니다. 분류·즐겨찾기로 정리하고, 끌어 놓기로도 추가할 수 있습니다. 백업·복원도 됩니다. |
 | ✋ **클릭해서 붙이고 바로 조절** | 스티커를 클릭하면 사진 위에 올라갑니다. 끌어서 옮기고, 모서리로 크기를, 위 핸들로 회전을 조절합니다. 한 사진에 여러 개, 겹침 순서·복제·삭제도 됩니다. |
-| 🔤 **글자 넣기** | 사진 위에 제목·날짜·설명을 씁니다. 앱에 든 한글 글꼴 15종(프리텐다드·본고딕·나눔고딕·주아·검은고딕·나눔손글씨 등)과 내 PC에 설치한 글꼴을 고르고, 크기·색·외곽선·배경 상자·그림자를 조절합니다. 자주 쓰는 스타일은 한 번에 적용됩니다. |
+| 🔤 **글자 넣기** | 사진 위에 제목·날짜·설명을 씁니다. 앱에 든 한글 글꼴 15종(프리텐다드·본고딕·나눔고딕·주아·검은고딕·나눔손글씨 등)과 내 PC에 설치한 글꼴을 고르고, 크기·색·외곽선·배경 상자·그림자를 조절합니다. 빠른 스타일 21가지(자막·말풍선·손글씨 템플릿 포함)를 누르면 한 번에 바뀌고, 마음에 든 스타일은 **내 스타일**로 저장해 둡니다. 마지막에 쓴 글꼴·크기·색은 다음에 켜도 그대로입니다. |
 | 🫥 **블러·모자이크** | 원형 또는 사각형으로 그려서 가립니다. 그려 둔 영역은 다시 클릭해서 옮기거나 강도를 바꿀 수 있습니다. |
 | 🎨 **간단 보정** | 밝기·대비·채도·색온도를 조절하고, 같은 값을 모든 사진에 한 번에 적용할 수 있습니다. |
 | 📐 **블로그 크기로 저장** | 원본 크기 그대로 또는 가로/세로 사진별 길이를 정해 JPG·PNG로 저장합니다. 위치 정보(GPS) 같은 사진 정보는 지웁니다. |
